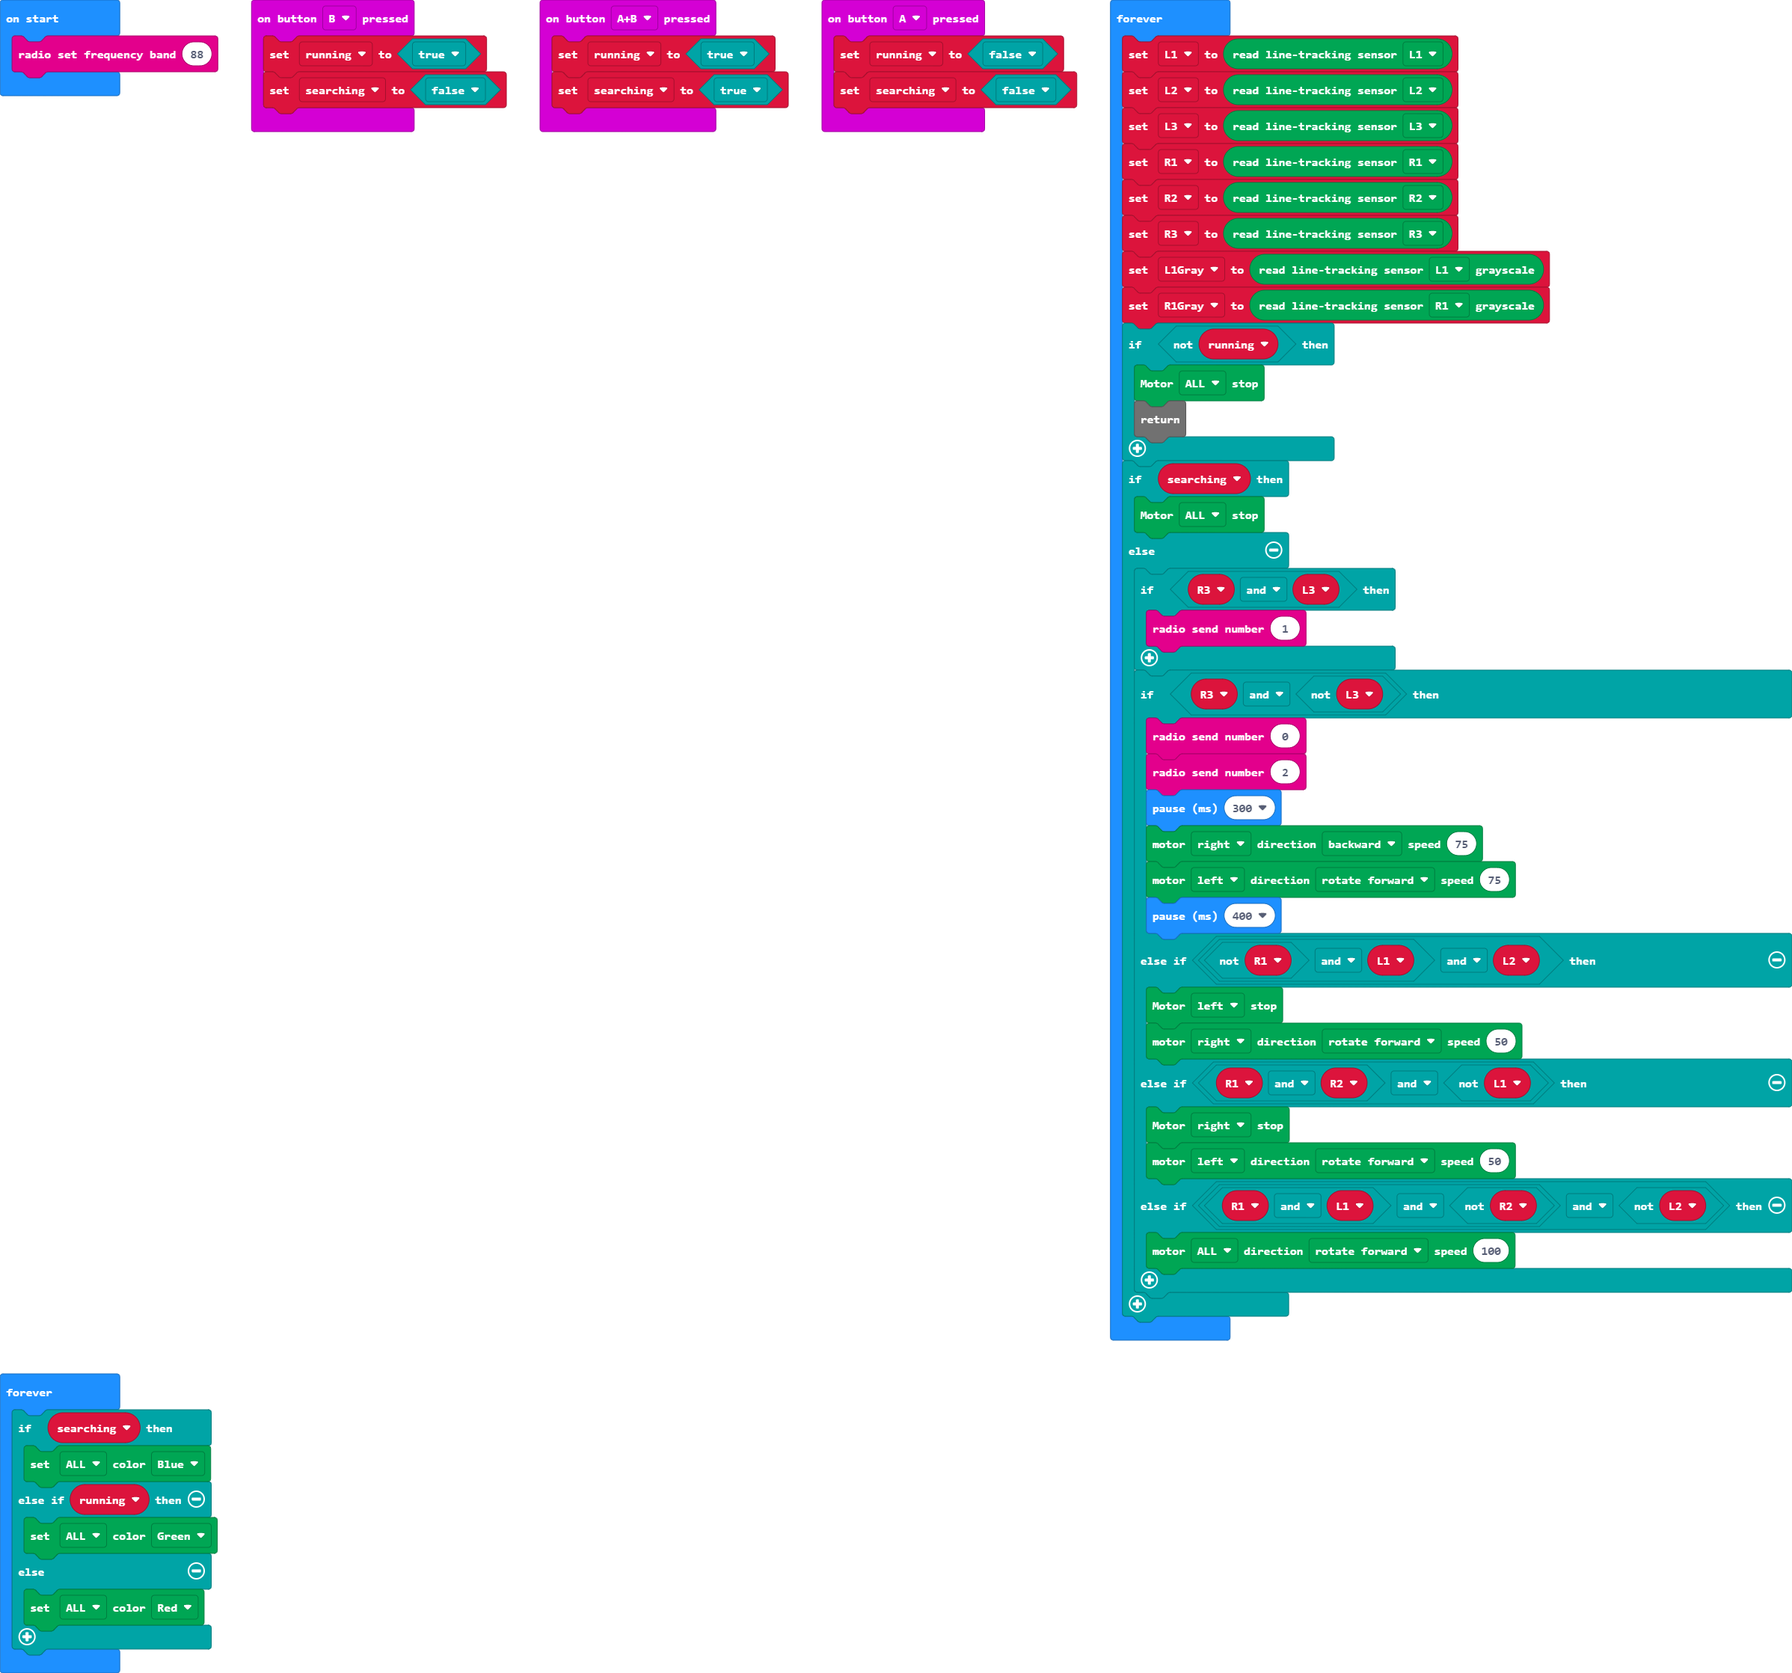
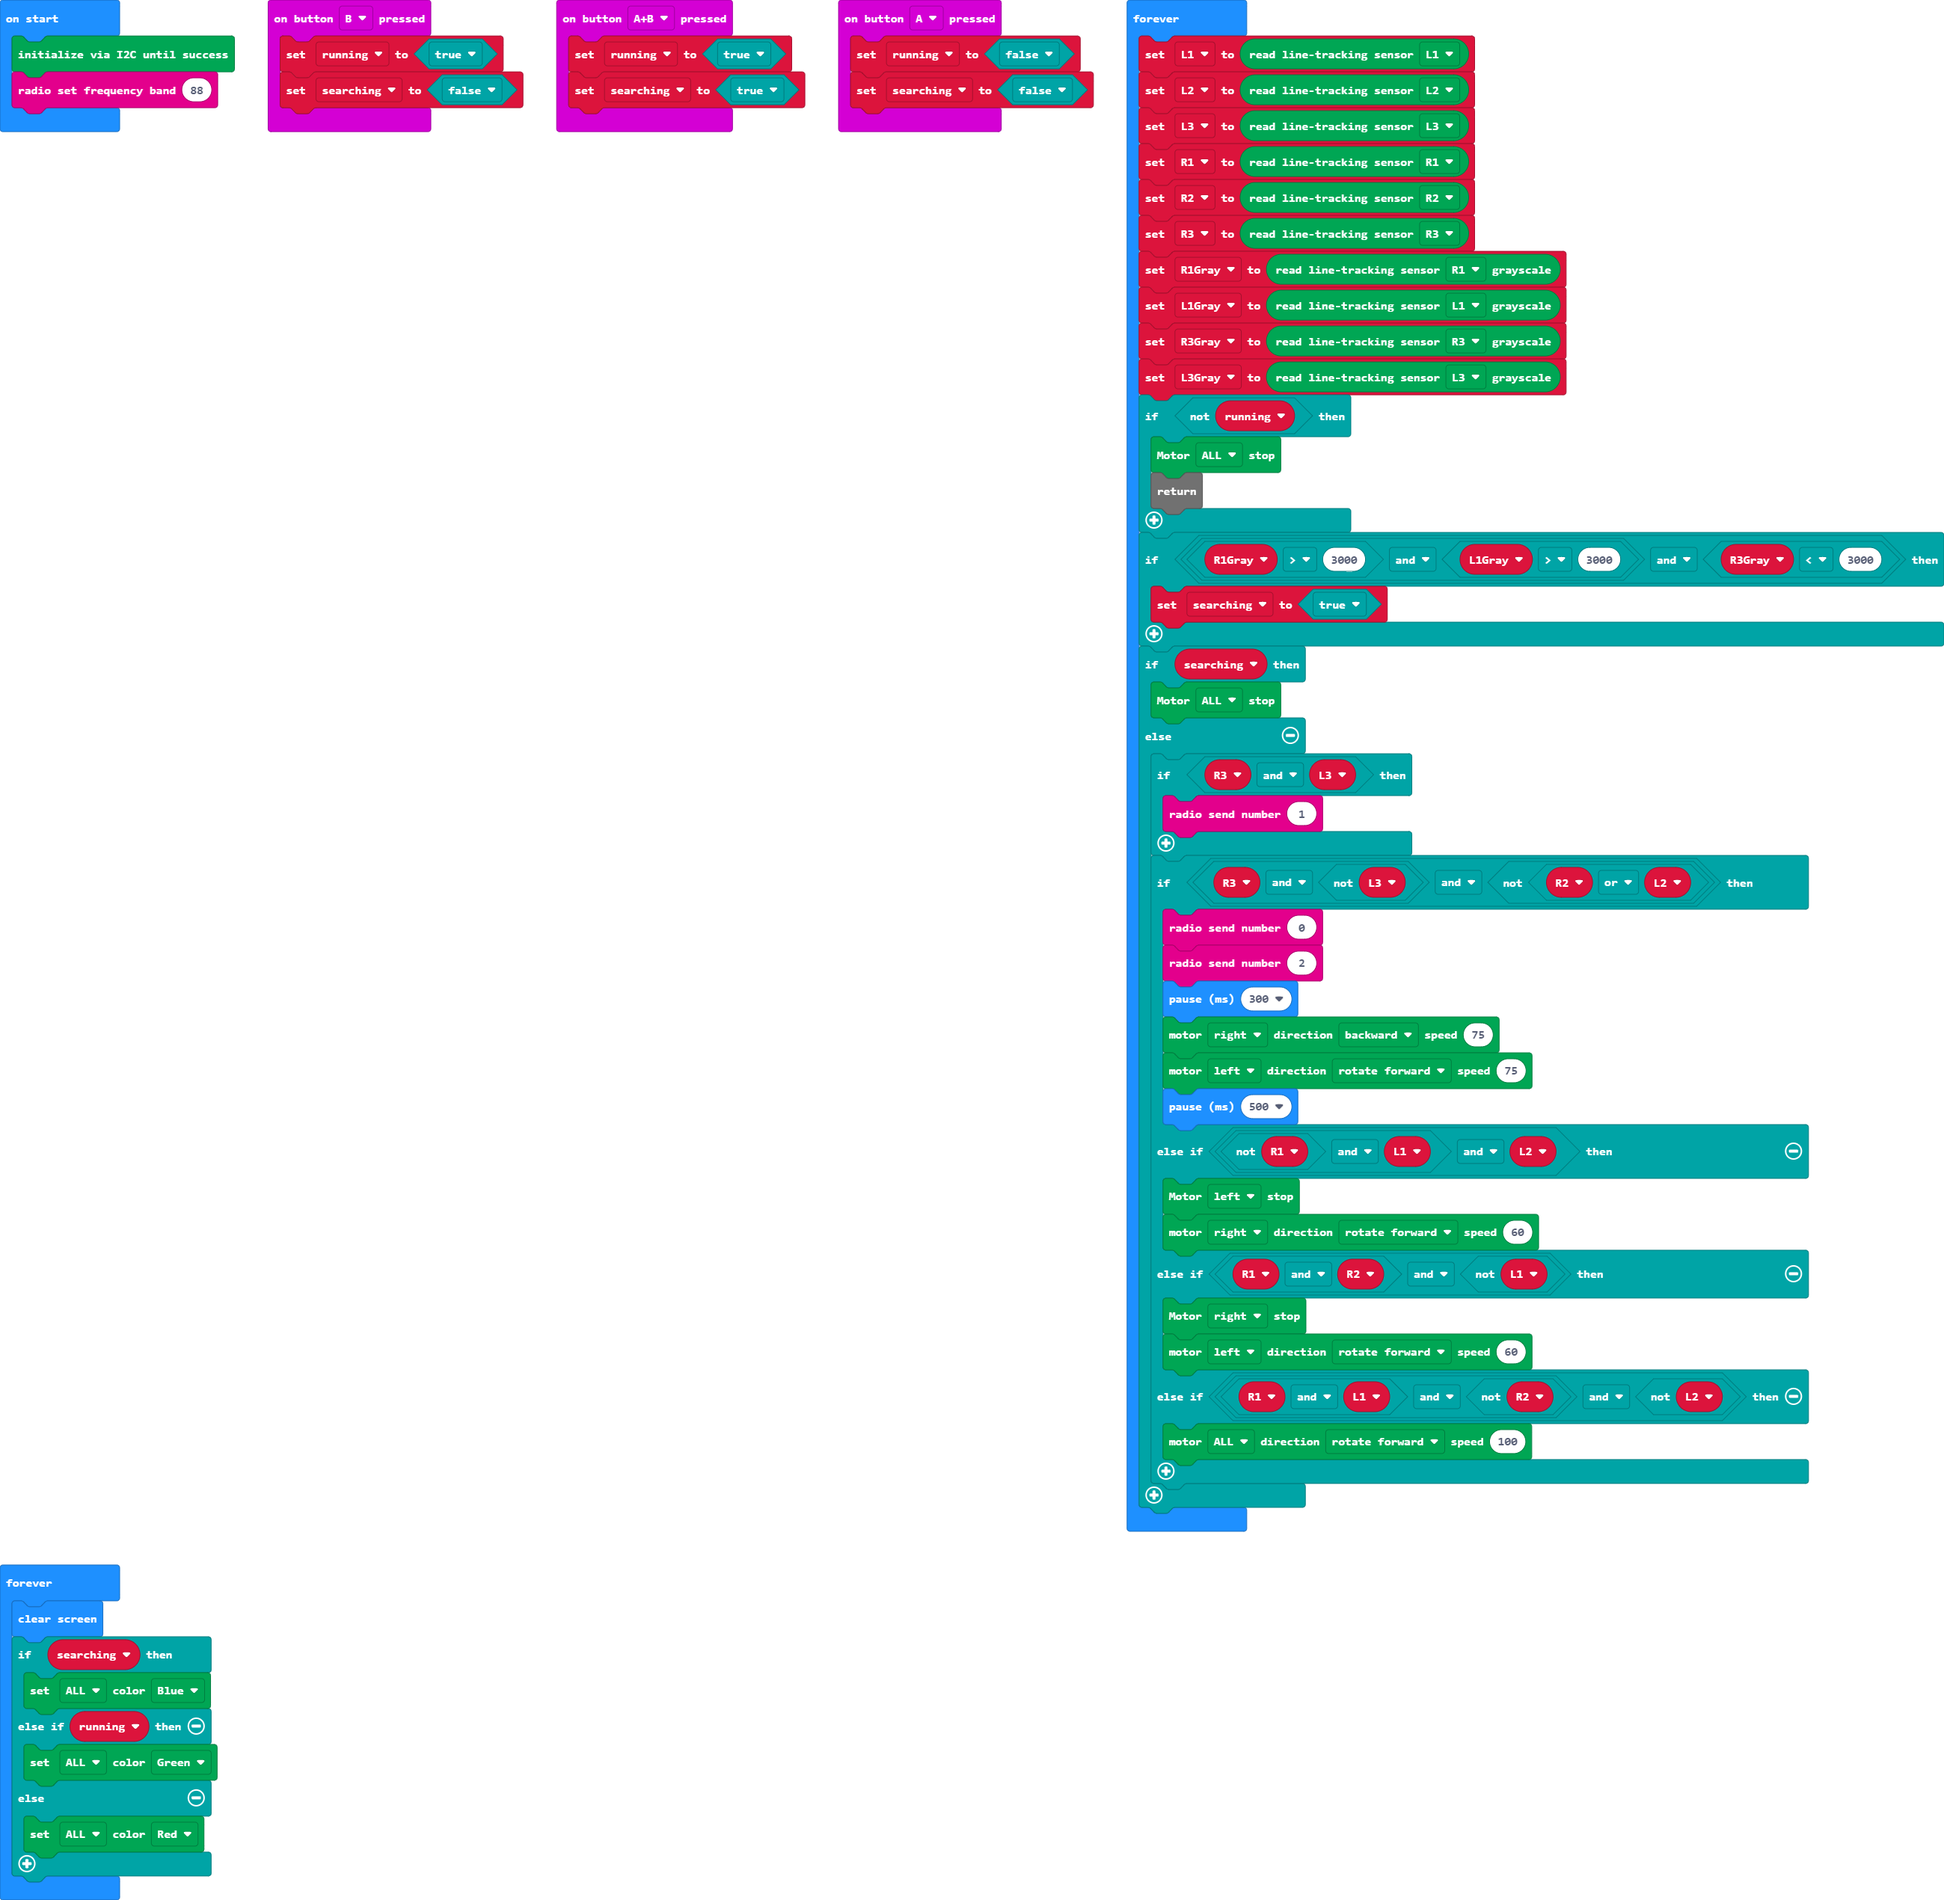
Add I2CInit

Changed region(s): [[0.0, 0.0, 1.0, 0.8328], [0.0, 0.802, 0.1235, 1.0]]

diff --git a/main.ts b/main.ts
@@ -1,27 +1,29 @@
-let running = false
-let searching = false
-let L1 = 0
-let L2 = 0
-let L3 = 0
-let R1 = 0
-let R2 = 0
-let R3 = 0
-let L1Gray = 0
-let R1Gray = 0
-let R3Gray = 0
-let L3Gray = 0
 input.onButtonPressed(Button.A, function () {
     running = false
-    searching = false
-})
-input.onButtonPressed(Button.B, function () {
-    running = true
     searching = false
 })
 input.onButtonPressed(Button.AB, function () {
     running = true
     searching = true
 })
+input.onButtonPressed(Button.B, function () {
+    running = true
+    searching = false
+})
+let L3Gray = 0
+let R3Gray = 0
+let L1Gray = 0
+let R1Gray = 0
+let R3 = 0
+let R2 = 0
+let R1 = 0
+let L3 = 0
+let L2 = 0
+let L1 = 0
+let searching = false
+let running = false
+DFRobotMaqueenPlus.I2CInit()
+radio.setFrequencyBand(88)
 basic.forever(function () {
     L1 = DFRobotMaqueenPlus.readPatrol(Patrol.L1)
     L2 = DFRobotMaqueenPlus.readPatrol(Patrol.L2)
@@ -65,6 +67,7 @@ basic.forever(function () {
     }
 })
 basic.forever(function () {
+    basic.clearScreen()
     if (searching) {
         DFRobotMaqueenPlus.setRGBLight(RGBLight.RGBA, Color.BLUE)
     } else if (running) {
@@ -73,4 +76,3 @@ basic.forever(function () {
         DFRobotMaqueenPlus.setRGBLight(RGBLight.RGBA, Color.RED)
     }
 })
-radio.setFrequencyBand(88)
